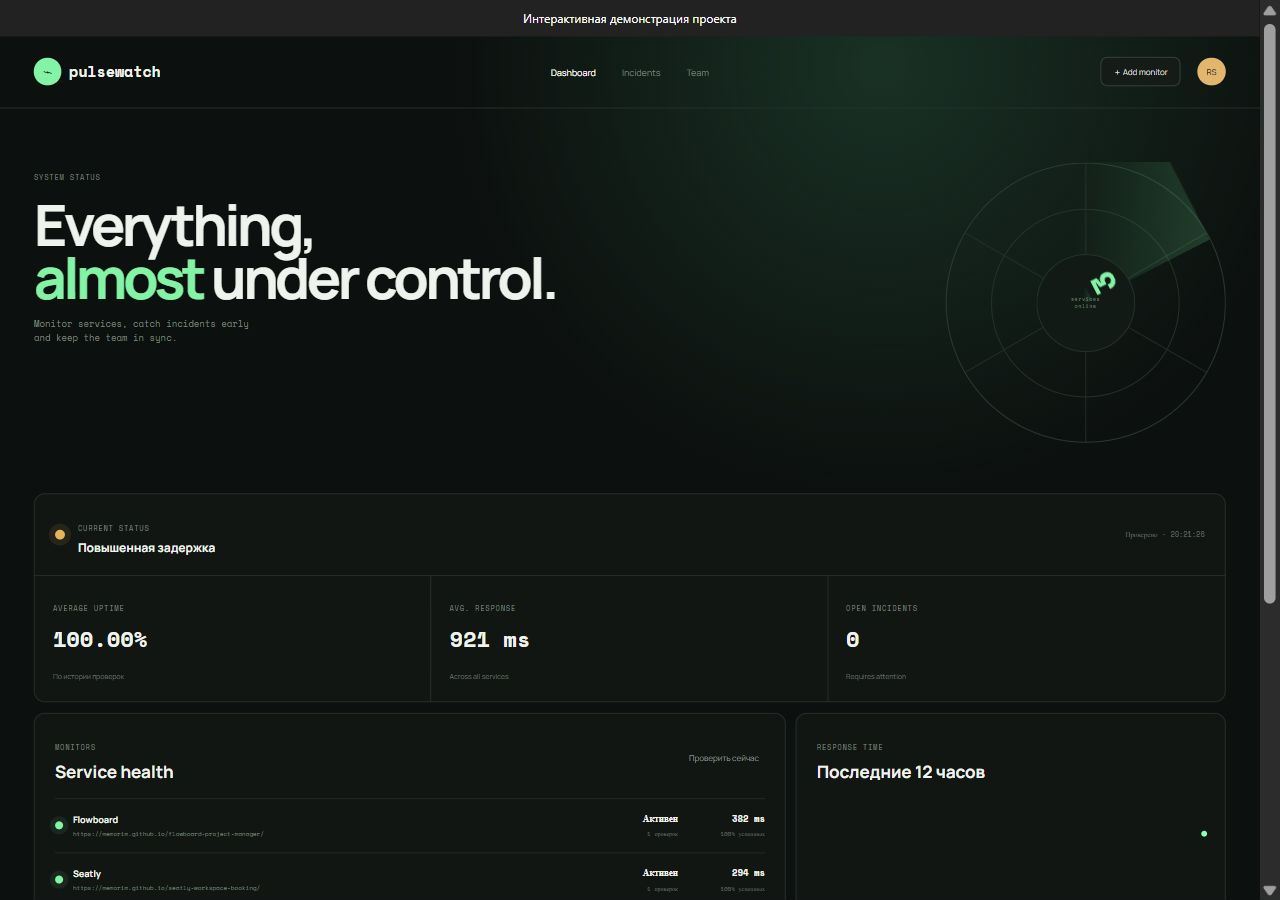
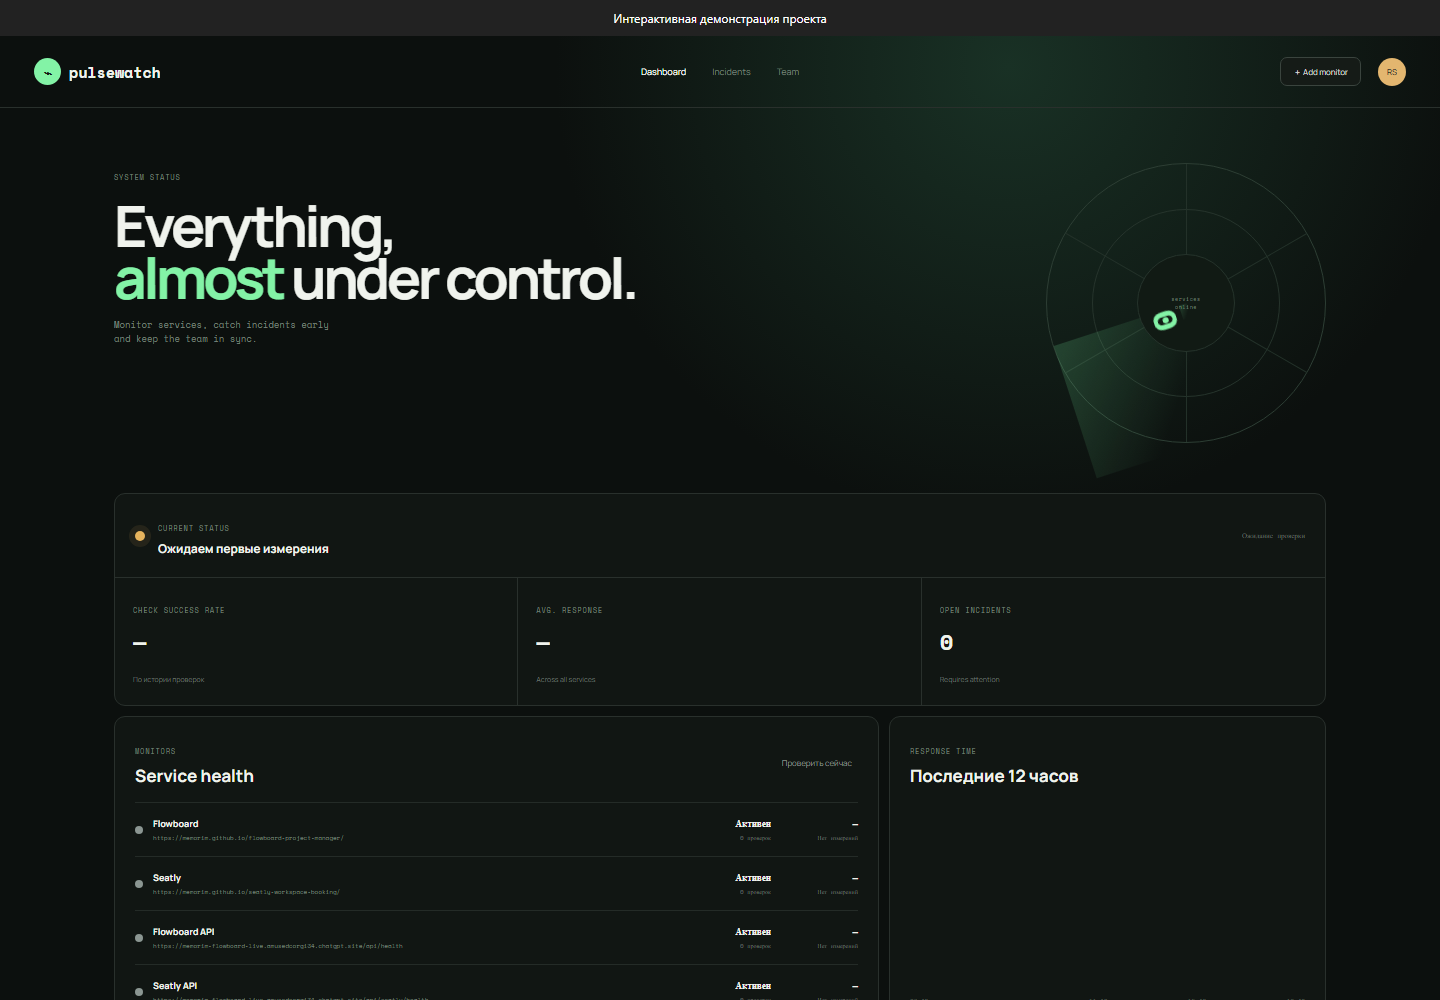
Correct status indicator semantics and refresh interface captures

diff --git a/public/styles.css b/public/styles.css
@@ -265,6 +265,14 @@ main {
   background: var(--green);
   box-shadow: 0 0 0 5px #83f3a613;
 }
+.monitor.down .monitor-name > i {
+  background: #f07272;
+  box-shadow: 0 0 0 5px #f0727213;
+}
+.monitor.unknown .monitor-name > i {
+  background: #8b9692;
+  box-shadow: none;
+}
 .monitor.degraded .monitor-name > i {
   background: #e7b45d;
   box-shadow: 0 0 0 5px #e7b45d13;

diff --git a/README.md b/README.md
@@ -3,11 +3,13 @@
 Periodically check owned HTTP services and retain measured availability, latency and incident history.
 
 
-![Desktop interface](docs/desktop.png)
+![Current local desktop interface](docs/desktop.png)
 
-<img src="docs/mobile.png" width="320" alt="Mobile interface">
+<img src="docs/mobile.png" width="320" alt="Current local mobile interface">
 
-[Short interaction recording](docs/demo.gif)
+Screenshots were captured from the running local application with its bundled fixture data.
+
+[Earlier sandbox interaction recording](docs/demo.gif)
 
 ## Implemented
 
